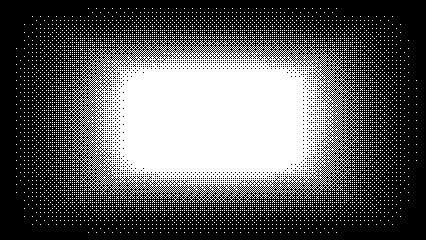
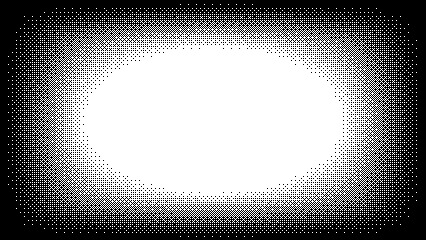
Implemented an special sequence that plays when combat initiates.

Changed region(s): [[0.0305, 0.0583, 0.946, 0.9625]]

diff --git a/src/game.cpp b/src/game.cpp
@@ -25,7 +25,9 @@ unique_ptr<Scene> Game::reserve;
 
 Font Game::sm_font;
 Font Game::med_font;
+
 Color *Game::palette;
+Color Game::flash_color = {0, 0, 0, 0};
 
 float Game::fade_percentage = 0.0;
 float Game::fade_time = 0.0;
@@ -220,11 +222,37 @@ void Game::loadSessionProcedure() {
 }
 
 void Game::initCombatProcedure() {
-  PLOGI << "Switching over to the Combat scene.";
-  scene.swap(reserve);
+  static float clock = 0.0;
+  static float sequence_time = 1.5;
 
-  assert(scene != nullptr && scene->scene_id == SceneID::COMBAT);
-  Game::fadein(0.75);
+  clock += deltaTime() / sequence_time;
+  clock = Clamp(clock, 0.0, 1.0);
+
+  if (flash_color.a != 0) {
+    float percentage = 1.0 - (clock / 0.20);
+    percentage = Clamp(percentage, 0.0, 1.0);
+
+    flash_color.a = Lerp(0, 255, percentage);
+  }
+
+  if (clock >= 0.20) {
+    float unflipped = Clamp(-0.20 + clock, 0.0, 1.0) / 0.10;
+    float percentage = Clamp(1.0 - unflipped, 0.0, 1.0);
+
+    canvas_dest.height = Lerp(0, window_res.y, percentage);
+    canvas_origin.y = canvas_dest.height / 2;
+  }
+
+  if (clock == 1.0) {
+    PLOGI << "Switching over to the Combat scene.";
+    scene.swap(reserve);
+    assert(scene != nullptr && scene->scene_id == SceneID::COMBAT);
+
+    clock = 0.0;
+    setupCanvas();
+    Game::fadein(0.25);
+    fadeScreenProcedure();
+  }
 }
 
 void Game::endCombatProcedure() {
@@ -246,8 +274,13 @@ void Game::drawScene() {
 
   BeginDrawing(); 
   {
+    ClearBackground(BLACK);
     DrawTexturePro(canvas.texture, canvas_src, canvas_dest, 
                    canvas_origin, 0, screen_tint);
+    if (flash_color.a != 0) {
+      DrawRectangleV({0, 0}, window_res, flash_color);
+    }
+
     if (debug_info) DrawFPS(0, 0);
   }
   EndDrawing();
@@ -344,6 +377,7 @@ void Game::initCombat(Session *data) {
   assert(reserve == nullptr);
 
   reserve = make_unique<CombatScene>(data);
+  flash_color = WHITE;
   game_state = GameState::INIT_COMBAT;
 }
 

diff --git a/src/scenes/field.cpp b/src/scenes/field.cpp
@@ -274,6 +274,7 @@ void FieldScene::eventHandling(unique_ptr<FieldEvent> &event) {
     case FieldEVT::INIT_COMBAT: {
       PLOGI << "Event Detected: InitCombatEvent";
 
+      sfx.play("combat_init");
       Game::initCombat(&session);
       break;
     }

diff --git a/include/game.h b/include/game.h
@@ -72,6 +72,8 @@ private:
   static float sleep_time;
   float sleep_clock = 0.0;
 
+  static Color flash_color;
+
   Vector2 window_res = {1280, 720};
   Color screen_tint = WHITE;
 
